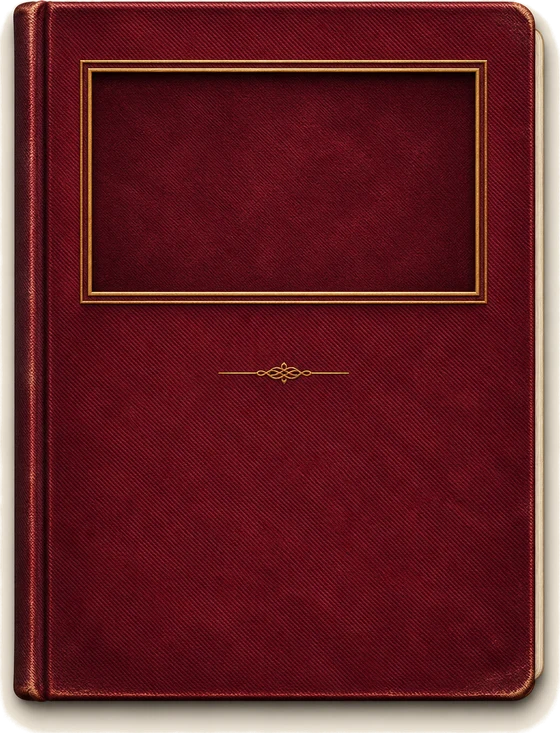
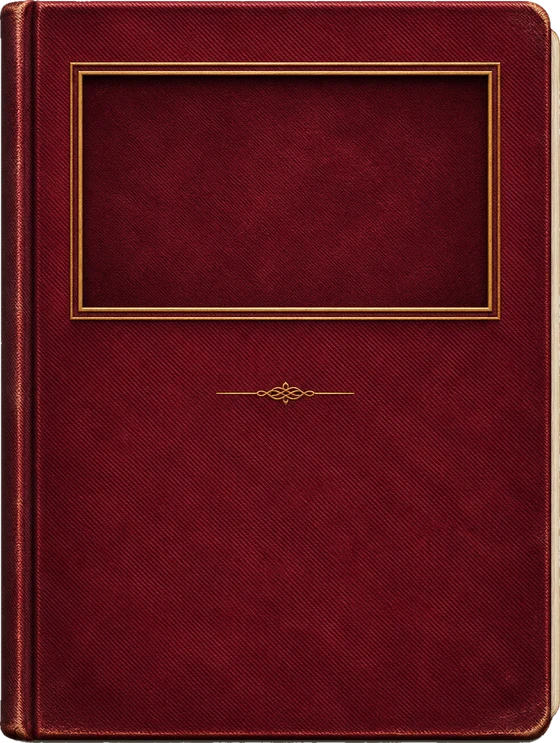
Book covers cut cleanly from their background (no cream halo) (#16)
Claude-Session: https://claude.ai/code/session_014Nhbtiouw5Zp1xS83TbvFk

diff --git a/index.html b/index.html
@@ -1590,15 +1590,15 @@ body:not(.studio) .pbanner h1,body:not(.studio) .pbanner p{text-shadow:0 0 18px 
 /* ══ the real cloth covers (assets/covers): the painting sits inside each
    cover's own gold frame; the measured window is set per cover below ══ */
 body:not(.studio) .bcard .book{aspect-ratio:var(--ar,3/4);border-radius:0;box-shadow:none;
-  background:var(--cv) center/100% 100% no-repeat;filter:drop-shadow(10px 16px 18px rgba(70,42,15,.35))}
+  background:var(--cv) center/100% 100% no-repeat;filter:drop-shadow(6px 10px 10px rgba(70,42,15,.28))}
 body:not(.studio) .bcard .book::before,body:not(.studio) .bcard .spine{display:none}
 body:not(.studio) .bcard .shot{background:none!important;border-radius:0;overflow:visible}
 body:not(.studio) .bcard .shot::before,body:not(.studio) .bcard .shot::after{display:none}
 body:not(.studio) .bcard .shot .plate{left:var(--wl);top:var(--wt);width:var(--ww);height:var(--wh);right:auto;aspect-ratio:auto;box-shadow:none}
-body:not(.studio) .bcard[data-cover="gold"]{--cv:url(assets/covers/gold.webp?v=2);--ar:1062/1414;--wl:15.07%;--wt:8.84%;--ww:68.83%;--wh:29.63%}
-body:not(.studio) .bcard[data-cover="burgundy"]{--cv:url(assets/covers/burgundy.webp?v=2);--ar:1053/1378;--wl:16.24%;--wt:9.58%;--ww:68.85%;--wh:30.41%}
-body:not(.studio) .bcard[data-cover="green"]{--cv:url(assets/covers/green.webp?v=2);--ar:1086/1421;--wl:15.84%;--wt:10.49%;--ww:70.53%;--wh:31.18%}
-body:not(.studio) .bcard[data-cover="navy"]{--cv:url(assets/covers/navy.webp?v=2);--ar:1054/1412;--wl:15.09%;--wt:9.7%;--ww:69.73%;--wh:30.95%}
+body:not(.studio) .bcard[data-cover="gold"]{--cv:url(assets/covers/gold.webp?v=3);--ar:1018/1345;--wl:14.44%;--wt:9.14%;--ww:71.81%;--wh:31.15%}
+body:not(.studio) .bcard[data-cover="burgundy"]{--cv:url(assets/covers/burgundy.webp?v=3);--ar:996/1321;--wl:14.56%;--wt:9.84%;--ww:72.79%;--wh:31.72%}
+body:not(.studio) .bcard[data-cover="green"]{--cv:url(assets/covers/green.webp?v=3);--ar:1064/1361;--wl:15.7%;--wt:9.7%;--ww:71.99%;--wh:32.55%}
+body:not(.studio) .bcard[data-cover="navy"]{--cv:url(assets/covers/navy.webp?v=3);--ar:1018/1346;--wl:14.24%;--wt:9.96%;--ww:72.2%;--wh:32.47%}
 /* words below the cover's ornament (which sits at about 52% down) */
 body:not(.studio) .bcard .txt{top:54%;left:12%;right:8%;bottom:6%}
 body:not(.studio) .bcard .txt::before{display:none}
